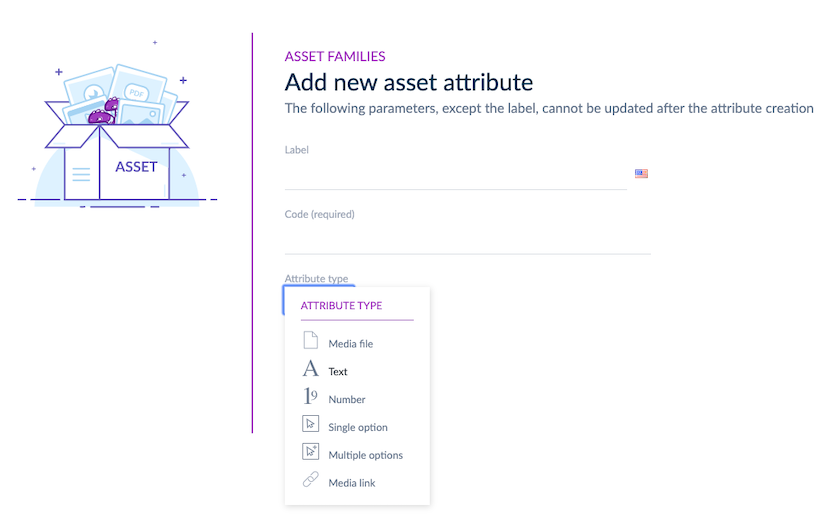
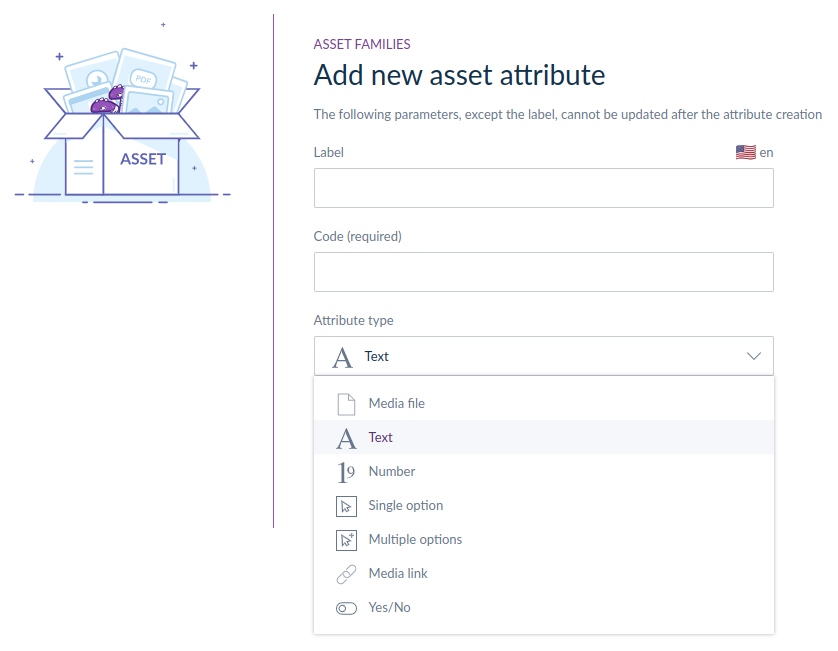
Add boolean asset attribute

diff --git a/content/md/first-steps/manage-asset-families.md b/content/md/first-steps/manage-asset-families.md
@@ -51,6 +51,7 @@ To add an attribute, follow these steps:
     - **Media link**: for images and files stores externally (when you have a url link)
     - **Text**: for text or text area attributes. You can also use the `rich text editor` for this attribute type.
     - **Number**: for number attributes
+    - **Yes/No**: for boolean attributes
     - **Single option**: to define a list of options with a single choice
     - **Multiple options**: to define a list of options with multiple choices
 1.  Tick `Value per locale` if your asset has different values per locale for this attribute
@@ -128,7 +129,7 @@ If not `Text area`:
 :::tips
 To allow positive values only, define a `min value` equals to 0.  
 To allow negative values only, define a `max value` equals to 0.
-:::   
+:::
 
 ### Edit a single/multiple options attribute  
   - The `Manage options` button enables to [manage the options of the list](#manage-the-options)

diff --git a/content/md/what-is/what-about-assets.md b/content/md/what-is/what-about-assets.md
@@ -51,6 +51,7 @@ There are several types of asset attributes, that will allow you to handle diffe
 - the **text** attribute,
 - the **single and multiple options** attributes,
 - the **number** attribute,
+- the **boolean** attribute,
 - the **media file** attribute,
 - the **media link** attribute.
 
